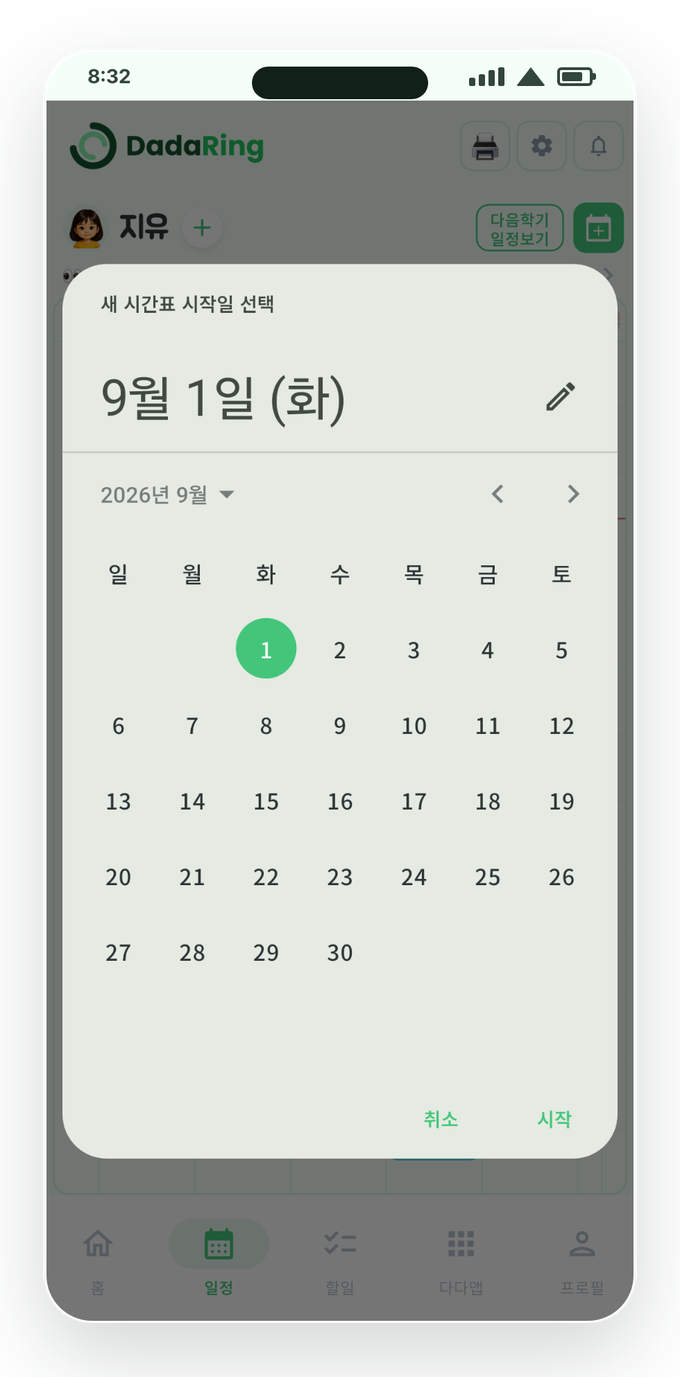
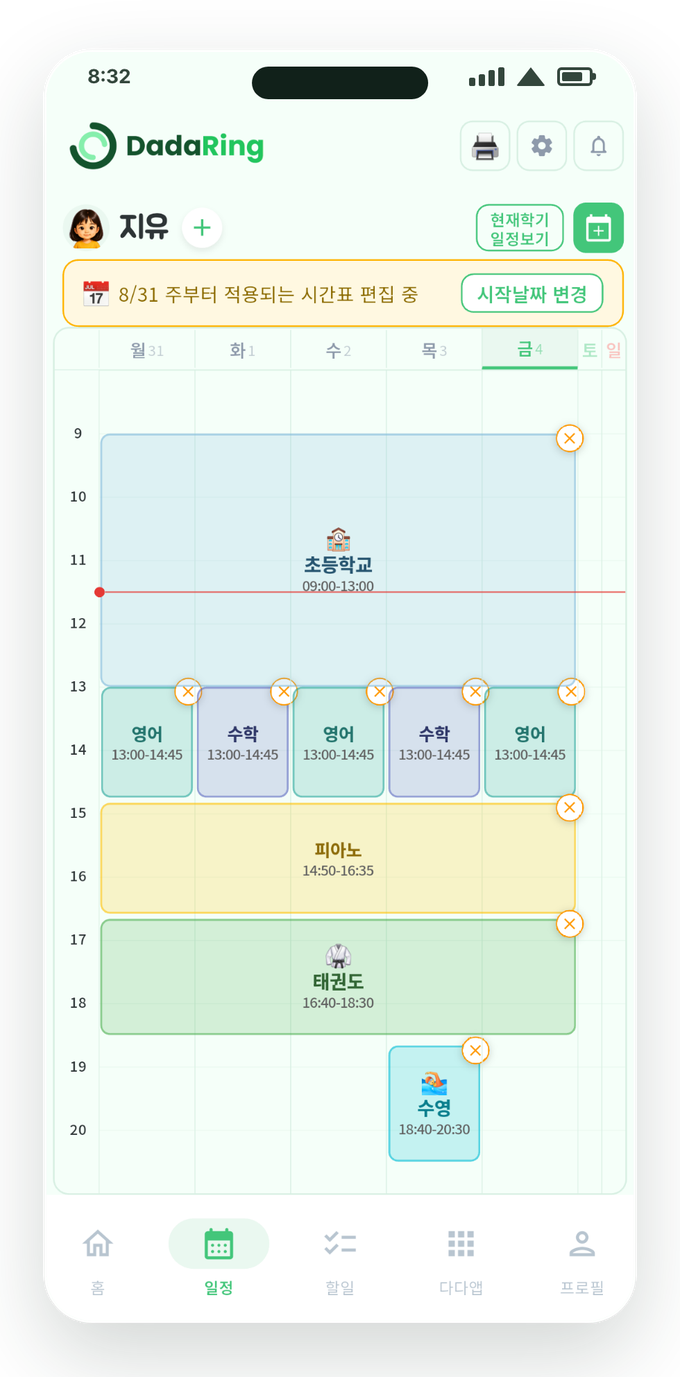
chore(home): '다음 학기 미리' 컷을 날짜 선택창 대신 편집 화면으로
날짜 선택 다이얼로그는 달력만 보여서 이 기능이 무엇인지 전달되지 않았다.
실제 편집 화면으로 교체 — 노란 배너 "8/31 주부터 적용되는 시간표 편집 중"과
[시작날짜 변경], 다음 주 날짜(월31 화1 …), 블록별 편집 배지가 함께 보여
'지금이 아니라 다음 학기를 미리 짜는 중'이라는 게 그림만으로 읽힌다.

diff --git a/index.html b/index.html
@@ -133,7 +133,7 @@
       <figcaption>주간 시간표</figcaption>
     </figure>
     <figure class="shot">
-      <img src="images/feat-next.png" alt="다음 학기 시간표 — 새 시간표 시작일을 9월 1일로 고르는 화면" loading="lazy" decoding="async" width="680" height="1377">
+      <img src="images/feat-next.png" alt="다음 학기 시간표 — 다음 학기 시작 주부터 적용되는 시간표를 미리 편집하는 화면" loading="lazy" decoding="async" width="680" height="1377">
       <figcaption>다음 학기 미리</figcaption>
     </figure>
     <figure class="shot">
